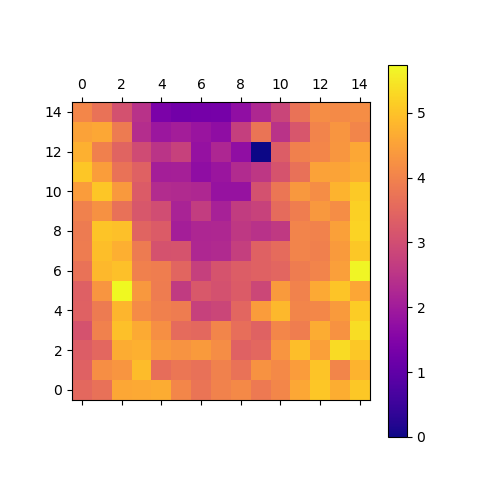
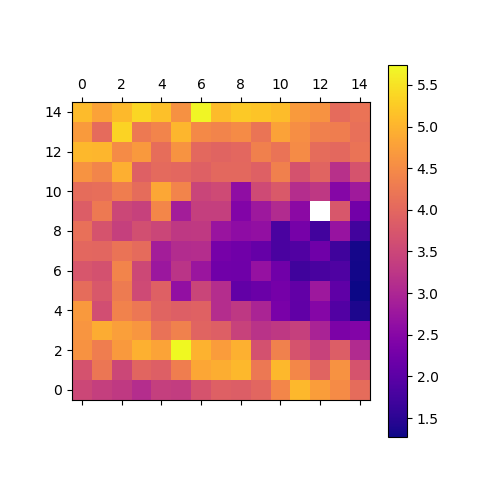
Improve pH-map Plant-life_Report
the color map has the same direction as real map
the areas there are no data color white

diff --git a/Plant-life_Report/Part_B.py b/Plant-life_Report/Part_B.py
@@ -1,5 +1,5 @@
 from Part_A import change_gps_data
-from numpy import zeros
+from numpy import zeros, nan
 
 # (3-1)
 def scale(df):
@@ -39,6 +39,8 @@ def mean_of_pH(df):
         for y in range(15):
             if count[x, y] != 0:
                 means[x, y] /= count[x, y]
+            else:
+                means[x, y] = nan
     return means
 
 if __name__ == "__main__":
@@ -60,7 +62,7 @@ if __name__ == "__main__":
         means = mean_of_pH(pH)
 
         # (4)
-        plt.matshow(means, origin="lower", cmap="plasma")
+        plt.matshow(means.T, origin="lower", cmap="plasma")
         plt.colorbar(cmap="plasma")
         plt.savefig("img/pH2017.png")
 

diff --git a/Plant-life_Report/test_matshow.py b/Plant-life_Report/test_matshow.py
@@ -1,11 +1,11 @@
-import numpy as np
+from numpy import array
 import matplotlib.pyplot as plt
 from traceback import print_exc
 
 try:
-    plt.matshow(np.array([[0, 1, 2],
-                          [3, 4, 5],
-                          [6, 7, 8]]), cmap="plasma", origin="lower")
+    plt.matshow(array([[0, 1, 2],
+                       [3, 4, 5],
+                       [6, 7, 8]]).T, cmap="plasma", origin="lower")
     plt.colorbar(cmap="plasma")
     plt.show()
 except:
